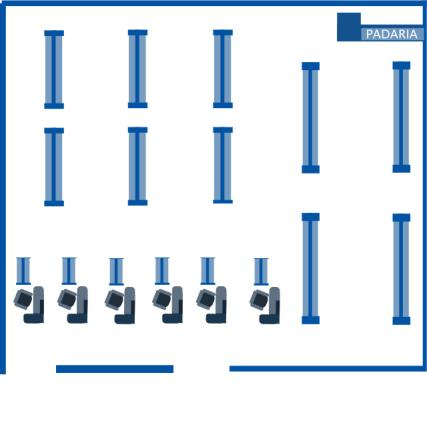
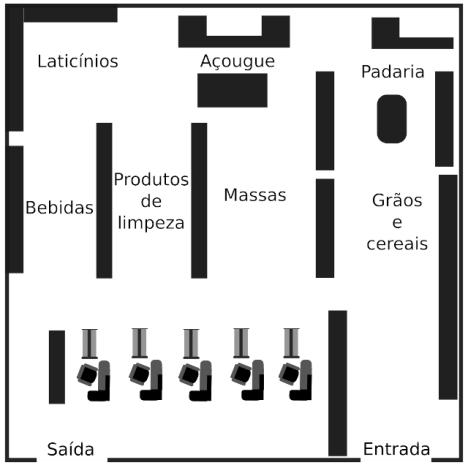
Implementação do funcionamento do Heatmap

diff --git a/Application/projeto-site/public/heatmap.html b/Application/projeto-site/public/heatmap.html
@@ -11,8 +11,8 @@
       .heatmap {
         /* height: 400px; */
         /* width: 605px; */
-        height: 500px;
-        width: 500px;
+        height: 400px;
+        width: 400px;
         background-image: url("planta.jpg");
         background-size: cover;
       }
@@ -32,7 +32,7 @@
     <script>
       function buscarPresencas() {
         var formulario = new URLSearchParams(new FormData(heatmap_form));
-        fetch("/leituras/presenca-hora", {
+        fetch("/dado/presenca-hora", {
           method: "POST",
           body: formulario,
         }).then((resposta) => {
@@ -53,56 +53,104 @@
 
               //Gerando um ponto por local da planta
               var local1 = {
-                x: 140,
-                y: 160,
+                x: 60,
+                y: 60,
                 value: json[0].media,
-                radius: 150,
+                radius: 70,
               };
               var local2 = {
-                x: 430,
-                y: 110,
+                x: 200,
+                y: 60,
                 value: json[1].media,
-                radius: 120,
+                radius: 60,
               };
               var local3 = {
-                x: 700,
-                y: 130,
+                x: 340,
+                y: 60,
                 value: json[2].media,
-                radius: 130,
+                radius: 70,
               };
               var local4 = {
-                x: 80,
-                y: 380,
+                x: 50,
+                y: 180,
                 value: json[3].media,
-                radius: 100,
+                radius: 50,
               };
               var local5 = {
-                x: 320,
-                y: 350,
+                x: 130,
+                y: 180,
                 value: json[4].media,
-                radius: 150,
+                radius: 55,
               };
-              // var local6 = {
-              //   x: 670,
-              //   y: 380,
-              //   value: json[5].media,
-              //   radius: 180,
-              // };
+              var local6 = {
+                x: 220,
+                y: 180,
+                value: json[5].media,
+                radius: 65,
+              };
+              var local7 = {
+                x: 330,
+                y: 200,
+                value: json[6].media,
+                radius: 65,
+              };
+              var local8 = {
+                x: 97,
+                y: 290,
+                value: json[7].media,
+                radius: 20,
+              };
+              var local9 = {
+                x: 140,
+                y: 290,
+                value: json[8].media,
+                radius: 20,
+              };
+              var local10 = {
+                x: 183,
+                y: 290,
+                value: json[9].media,
+                radius: 20,
+              };
+              var local11 = {
+                x: 227,
+                y: 290,
+                value: json[10].media,
+                radius: 20,
+              };
+              var local12 = {
+                x: 270,
+                y: 290,
+                value: json[11].media,
+                radius: 20,
+              };
 
               console.log("Local 1", local1);
               console.log("Local 2", local2);
               console.log("Local 3", local3);
               console.log("Local 4", local4);
               console.log("Local 5", local5);
-              // console.log("Local 6", local6);
+              console.log("Local 6", local6);
+              console.log("Local 7", local7);
+              console.log("Local 8", local7);
+              console.log("Local 9", local7);
+              console.log("Local 10", local7);
+              console.log("Local 11", local7);
+              console.log("Local 12", local7);
 
               points = points.concat(
                 local1,
                 local2,
                 local3,
                 local4,
-                local5
-                // local6
+                local5,
+                local6,
+                local7,
+                local8,
+                local9,
+                local10,
+                local11,
+                local12
               );
 
               // formato para gerar mapa
@@ -118,7 +166,7 @@
           } else {
             console.log("Erro ao buscar quantidade de presença!");
 
-            response.text().then((texto) => {
+            resposta.text().then((texto) => {
               console.error(texto);
             });
           }

diff --git a/Application/projeto-site/routes/dado.js b/Application/projeto-site/routes/dado.js
@@ -3,6 +3,35 @@ var router = express.Router();
 var sequelize = require('../models').sequelize;
 var Dado = require('../models').Dado;
 
+// Recuperar as ultimas n leituras
+router.post('/presenca-hora', function(req, res, next) {
+	
+	// quantas são as últimas leituras que quer? 8 está bom?
+	var hora_ini = req.body.hora_ini;
+	var hora_fim = req.body.hora_fim;
+
+	console.log(`Hora inicio: ${hora_ini}`);
+	console.log(`Hora fim: ${hora_fim}`);
+	
+	const instrucaoSql = `SELECT round(avg(grauMov), 1) as media, fkSetor
+							FROM dado, setor 
+							WHERE fkSetor = idSetor
+								AND CAST(dataHora as time) BETWEEN '${hora_ini}' AND '${hora_fim}'
+							GROUP BY fkSetor ORDER BY fkSetor;`;
+
+	sequelize.query(instrucaoSql, {
+		model: Dado,
+		mapToModel: true 
+	  })
+	  .then(resultado => {
+			console.log(`Encontrados: ${resultado.length}`);
+			res.json(resultado);
+	  }).catch(erro => {
+			console.error(erro);
+			res.status(500).send(erro.message);
+	  });
+});
+
 /* Recuperar as últimas N leituras */
 router.get('/ultimas', function (req, res, next) {
 

diff --git a/Application/projeto-site/routes/leituras.js b/Application/projeto-site/routes/leituras.js
@@ -3,34 +3,7 @@ var router = express.Router();
 var sequelize = require('../models').sequelize;
 var Leitura = require('../models').Leitura;
 
-// Recuperar as ultimas n leituras
-router.post('/presenca-hora', function(req, res, next) {
-	
-	// quantas são as últimas leituras que quer? 8 está bom?
-	var hora_ini = req.body.hora_ini;
-	var hora_fim = req.body.hora_fim;
 
-	console.log(`Hora inicio: ${hora_ini}`);
-	console.log(`Hora fim: ${hora_fim}`);
-	
-	const instrucaoSql = `SELECT round(avg(grauMov), 1) as media, fkSetor
-							FROM dado, setor 
-							WHERE fkSetor = idSetor
-								AND CAST(dataHora as time) BETWEEN '14:23' AND '14:53'
-							GROUP BY fkSetor;`;
-
-	sequelize.query(instrucaoSql, {
-		model: Leitura,
-		mapToModel: true 
-	  })
-	  .then(resultado => {
-			console.log(`Encontrados: ${resultado.length}`);
-			res.json(resultado);
-	  }).catch(erro => {
-			console.error(erro);
-			res.status(500).send(erro.message);
-	  });
-});
 
 /* Recuperar as últimas N leituras */
 router.get('/ultimas', function(req, res, next) {
